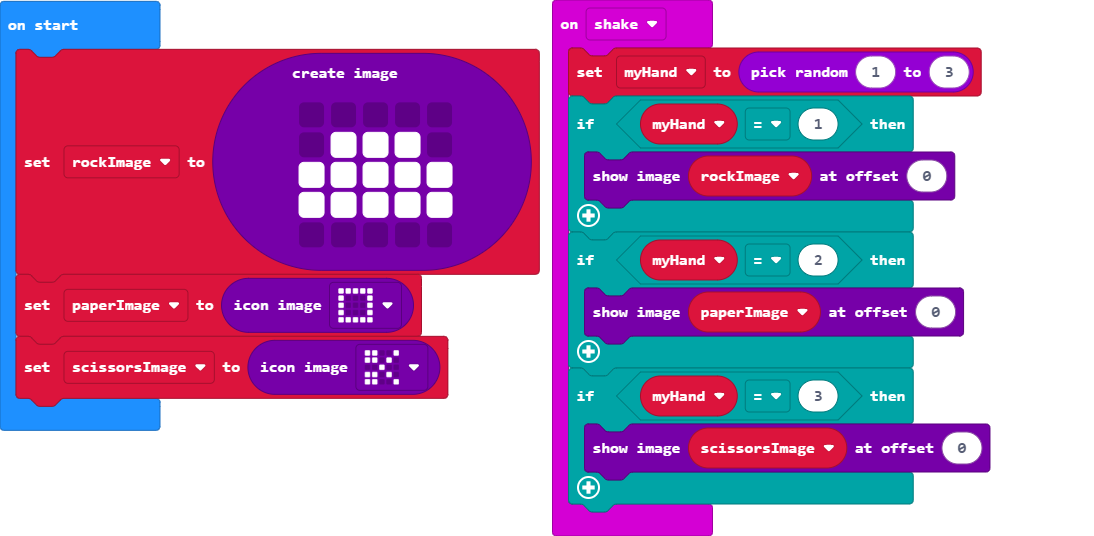
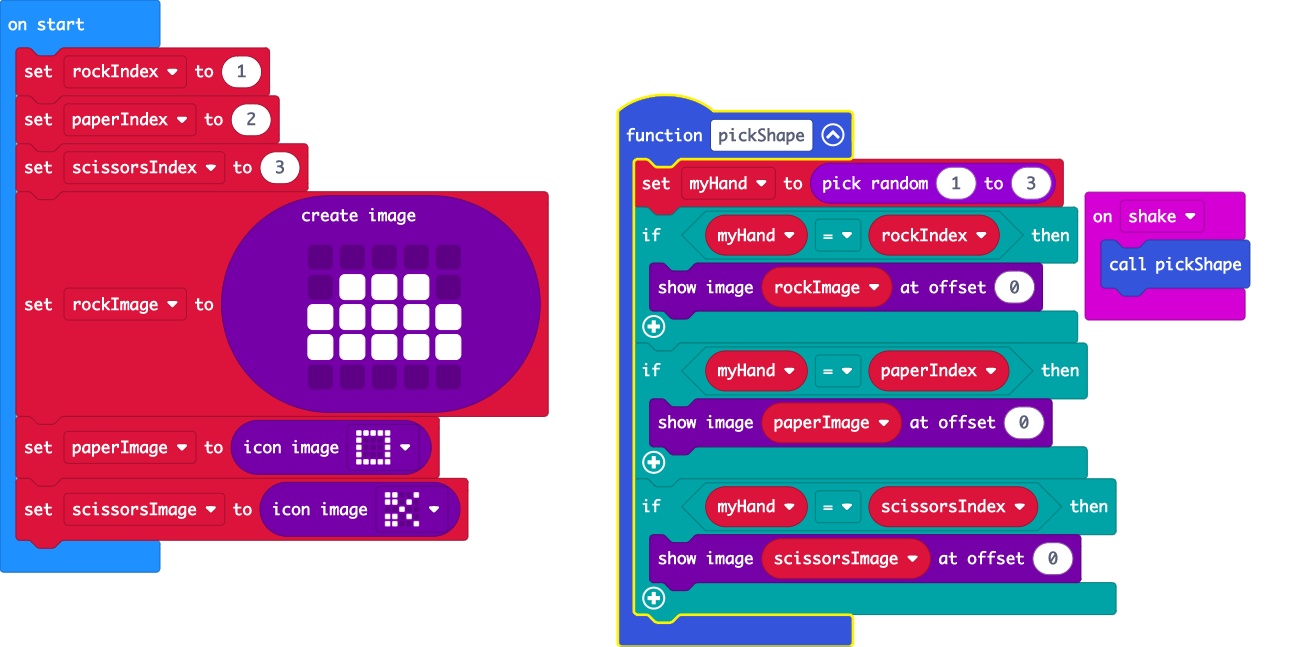
chore: push

diff --git a/main.ts b/main.ts
@@ -1,19 +1,28 @@
-input.onGesture(Gesture.Shake, function () {
+function pickShape () {
     myHand = randint(1, 3)
-    if (myHand == 1) {
+    if (myHand == rockIndex) {
         rockImage.showImage(0)
     }
-    if (myHand == 2) {
+    if (myHand == paperIndex) {
         paperImage.showImage(0)
     }
-    if (myHand == 3) {
+    if (myHand == scissorsIndex) {
         scissorsImage.showImage(0)
     }
+}
+input.onGesture(Gesture.Shake, function () {
+    pickShape()
 })
 let myHand = 0
 let scissorsImage: Image = null
 let paperImage: Image = null
 let rockImage: Image = null
+let scissorsIndex = 0
+let paperIndex = 0
+let rockIndex = 0
+rockIndex = 1
+paperIndex = 2
+scissorsIndex = 3
 rockImage = images.createImage(`
     . . . . .
     . # # # .

diff --git a/main.py b/main.py
@@ -1,7 +1,18 @@
 def on_gesture_shake():
-    pass
+    global myHand
+    myHand = randint(1, 3)
+    if myHand == 1:
+        rockImage.show_image(0)
+    if myHand == 2:
+        paperImage.show_image(0)
+    if myHand == 3:
+        scissorsImage.show_image(0)
 input.on_gesture(Gesture.SHAKE, on_gesture_shake)
 
+myHand = 0
+scissorsImage: Image = None
+paperImage: Image = None
+rockImage: Image = None
 rockImage = images.create_image("""
     . . . . .
     . # # # .
